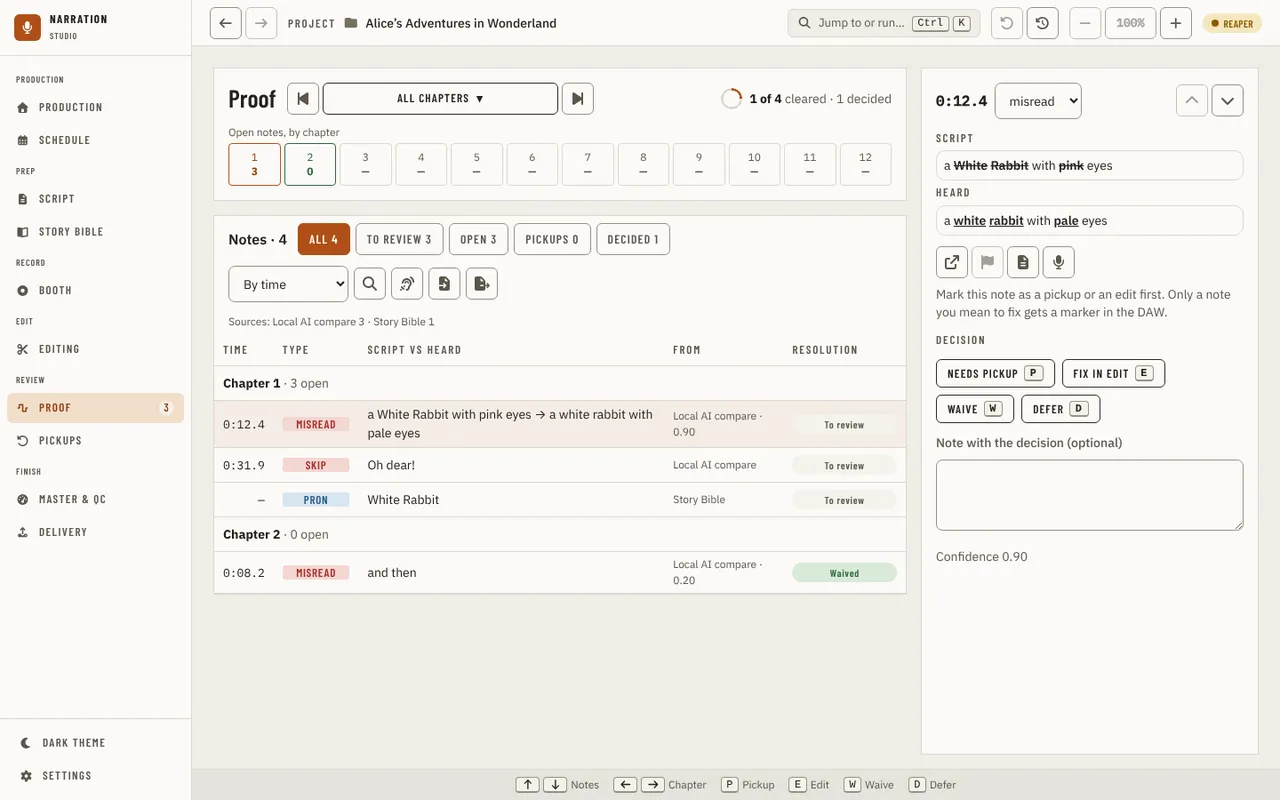
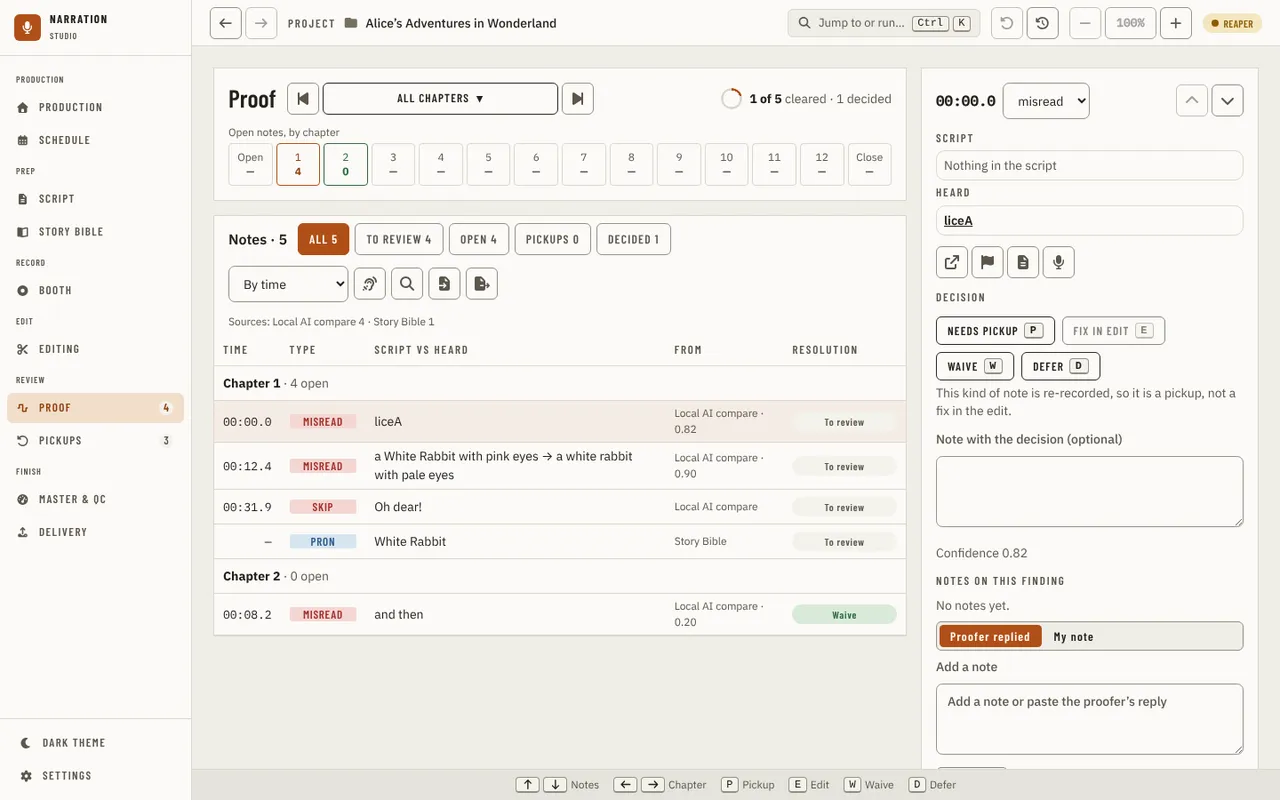
docs(proof): refresh the Proof screenshots and add the notes thread
proof-default, proof-empty and proof-evidence-changed from this branch's
visual run, and the new proof-note-thread. The evidence-changed driver
brings the banner into view, since the Inspector is now taller than the
window.

Claude-Session: https://claude.ai/code/session_01MNc7ySWpvKqyLcM6wU5gRf

diff --git a/apps/ui/tests/visual/drivers/proof.ts b/apps/ui/tests/visual/drivers/proof.ts
@@ -117,6 +117,8 @@ export const proofDrivers: Record<string, Driver> = {
     await inspector(page)
       .getByRole('textbox', { name: /Note with the decision/ })
       .fill('Heard it twice; the second read is right.');
+    // The Inspector is taller than the window with its thread; the banner is the state, so it is what the capture shows.
+    await inspector(page).getByText('The evidence changed', { exact: true }).scrollIntoViewIfNeeded();
   },
   empty: async (page) => {
     await openProof(page, 'mockFindings=empty', false);
